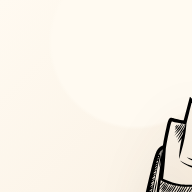
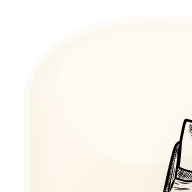
adw

Changed region(s): [[0.75, 0.5, 1.0, 1.0]]

diff --git a/index.html b/index.html
@@ -16,7 +16,7 @@
     <meta name="apple-mobile-web-app-title" content="Memory98" />
     <meta name="apple-mobile-web-app-status-bar-style" content="default" />
     <link rel="icon" type="image/svg+xml" href="./logo-web-class-98.svg" />
-    <link rel="apple-touch-icon" href="./icon-192.png" />
+    <link rel="apple-touch-icon" href="./apple-touch-icon.png" />
     <link rel="manifest" href="./manifest.webmanifest" />
     <link rel="preconnect" href="https://fonts.googleapis.com" />
     <link rel="preconnect" href="https://fonts.gstatic.com" crossorigin />

diff --git a/public/sw.js b/public/sw.js
@@ -1,4 +1,4 @@
-const CACHE_NAME = 'memory98-app-shell-v1';
+const CACHE_NAME = 'memory98-app-shell-v2';
 const APP_SHELL_PATHS = [
   './',
   './index.html',
@@ -7,6 +7,9 @@ const APP_SHELL_PATHS = [
   './favicon.svg',
   './icon-192.png',
   './icon-512.png',
+  './icon-maskable-192.png',
+  './icon-maskable-512.png',
+  './apple-touch-icon.png',
 ];
 
 const scopedUrl = (path) => new URL(path, self.registration.scope).toString();
